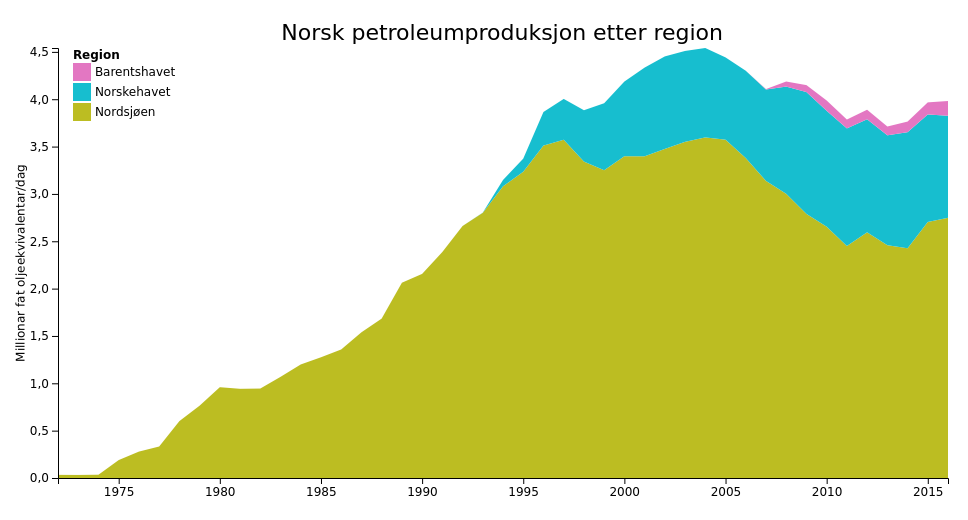
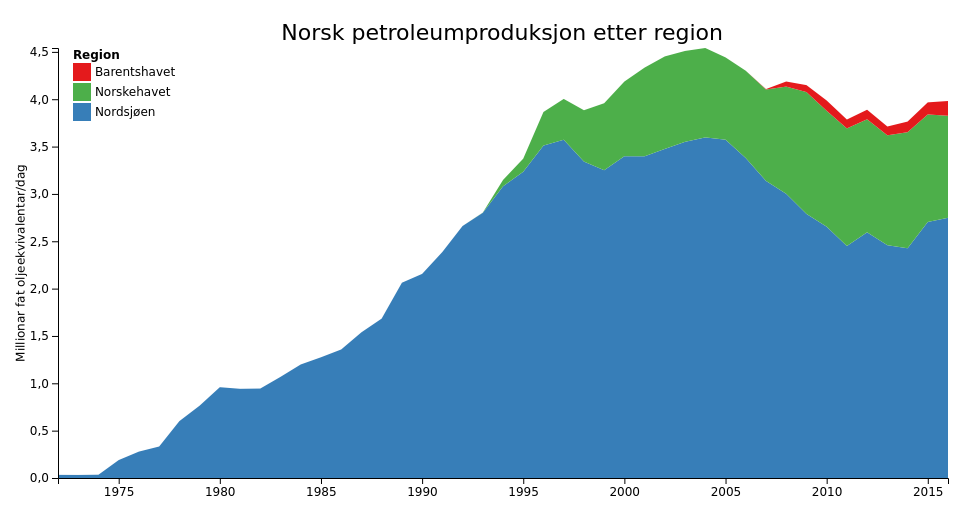
Try improve colors regions

diff --git a/vis/entry.js b/vis/entry.js
@@ -32,7 +32,7 @@ function show_resource(resource, group, unit, file) {
     var y = d3.scaleLinear()
         .range([height, 0]);
 
-    var colorscheme = group === 'funntiår' ? d3.schemeCategory10 : ["#bcbd22", "#17becf", "#e377c2"];
+    var colorscheme = group === 'funntiår' ? d3.schemeCategory10 : require('./colors_region.js').colors;
     var z = d3.scaleOrdinal(colorscheme);
     var stack = d3.stack();
 

diff --git a/vis/cumulative_produced_and_reserves.js b/vis/cumulative_produced_and_reserves.js
@@ -51,7 +51,7 @@ function show_resource(unit_key, resource, group, unit, file) {
         .padding(0.1)
         .rangeRound([0, width])
 
-      var colorscheme = group === 'funntiår' ? d3.schemeCategory10 : ["#bcbd22", "#17becf", "#e377c2"];
+      var colorscheme = group === 'funntiår' ? d3.schemeCategory10 : require('./colors_region.js').colors;
 
       var barWidth = width / data.length;
 

diff --git a/vis/colors_region.js b/vis/colors_region.js
@@ -1,0 +1,4 @@
+module.exports = {
+  colors: ["#377eb8", "#4daf4a", "#e41a1c"]
+  // colors: ["#7fc97f", "#beaed4", "#fdc086"]
+};
